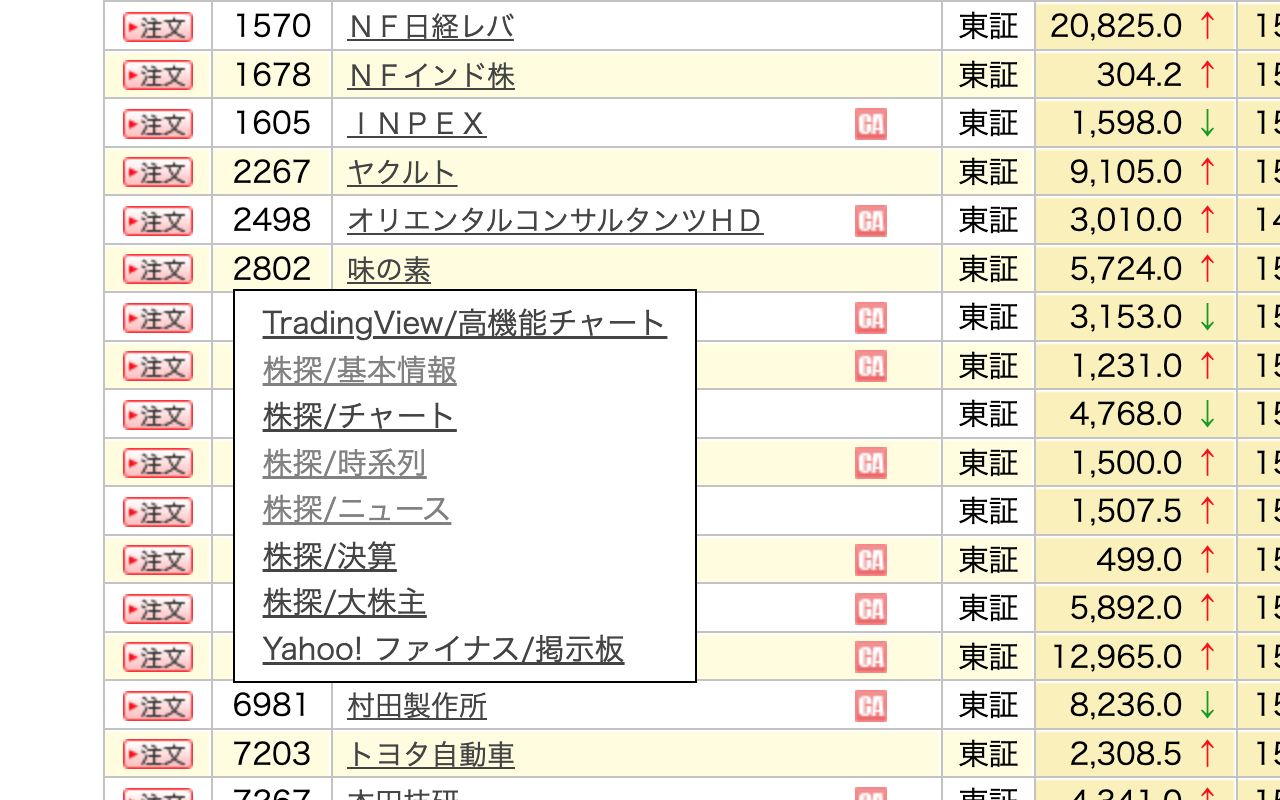
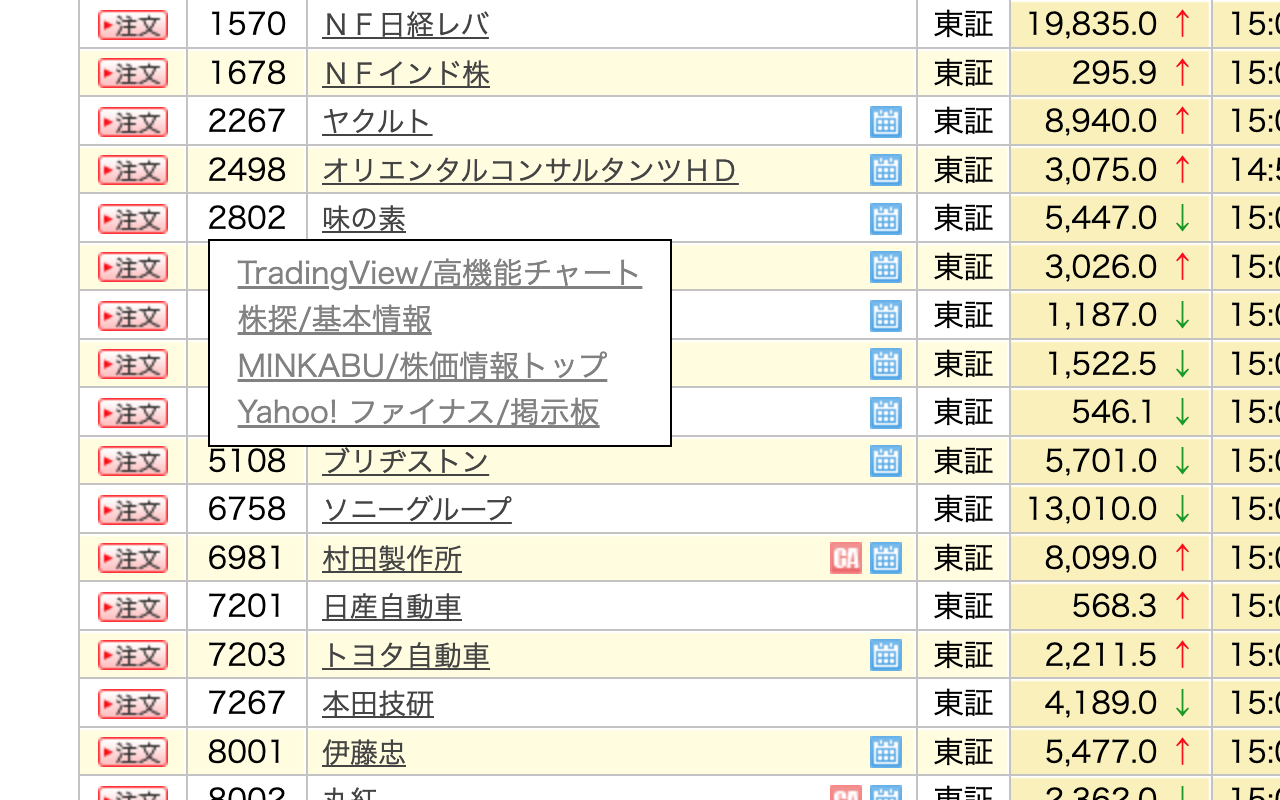
MINKABU追加

diff --git a/src/tradingview-cs.js b/src/tradingview-cs.js
@@ -61,8 +61,9 @@ function hookMenu () {
 
   const tickerCode = firstMenuItemText.slice(0, 4)
 
-  const yahoo = `${tickerCode} をYahoo!ファイナンスで開く`
   const kabutan = `${tickerCode} を株探で開く`
+  const minkabu = `${tickerCode} をMINKABUで開く`
+  const yahoo = `${tickerCode} をYahoo!ファイナンスで開く`
 
   const menuItem = $(`
   <tr class="row-DFIg7eOh">
@@ -79,7 +80,7 @@ function hookMenu () {
       <div class="content-GJX1EXhk">
         <span class="label-GJX1EXhk" data-label="true">
           <div class="wrapper-NLkHhUu3">
-            <a style="color: var(--tv-color-popup-element-text); width: 100%;" title="${yahoo}" target="_blank" rel="noopener noreferrer" href="https://finance.yahoo.co.jp/quote/${tickerCode}/bbs">${yahoo}</a>
+            <a style="color: var(--tv-color-popup-element-text); width: 100%;" title="${kabutan}" target="_blank" rel="noopener noreferrer" href="https://kabutan.jp/stock/?code=${tickerCode}">${kabutan}</a>
           </div>
         </span>
       </div>
@@ -94,7 +95,22 @@ function hookMenu () {
       <div class="content-GJX1EXhk">
         <span class="label-GJX1EXhk" data-label="true">
           <div class="wrapper-NLkHhUu3">
-            <a style="color: var(--tv-color-popup-element-text); width: 100%;" title="${kabutan}" target="_blank" rel="noopener noreferrer" href="https://kabutan.jp/stock/?code=${tickerCode}">${kabutan}</a>
+            <a style="color: var(--tv-color-popup-element-text); width: 100%;" title="${minkabu}" target="_blank" rel="noopener noreferrer" href="https://minkabu.jp/stock/${tickerCode}">${minkabu}</a>
+          </div>
+        </span>
+      </div>
+    </td>
+  </tr>
+  <tr class="subMenu-GJX1EXhk">
+    <td></td>
+  </tr>
+  <tr class="item-GJX1EXhk interactive-GJX1EXhk normal-GJX1EXhk">
+    <td class="iconCell-GJX1EXhk" data-icon-cell="true"></td>
+    <td>
+      <div class="content-GJX1EXhk">
+        <span class="label-GJX1EXhk" data-label="true">
+          <div class="wrapper-NLkHhUu3">
+            <a style="color: var(--tv-color-popup-element-text); width: 100%;" title="${yahoo}" target="_blank" rel="noopener noreferrer" href="https://finance.yahoo.co.jp/quote/${tickerCode}/bbs">${yahoo}</a>
           </div>
         </span>
       </div>

diff --git a/src/service_worker.js b/src/service_worker.js
@@ -1,20 +1,29 @@
-chrome.contextMenus.create({
-  id: 'kabutan',
-  title: '株探/基本情報',
-  contexts: ['selection']
-})
+try {
+  chrome.contextMenus.create({
+    id: 'tradingview',
+    title: 'TradingView/高機能チャート',
+    contexts: ['selection']
+  })
+  
+  chrome.contextMenus.create({
+    id: 'kabutan',
+    title: '株探/基本情報',
+    contexts: ['selection']
+  })
 
-chrome.contextMenus.create({
-  id: 'yahoo',
-  title: 'Yahoo! ファイナス/掲示板',
-  contexts: ['selection']
-})
-
-chrome.contextMenus.create({
-  id: 'tradingview',
-  title: 'TradingView/高機能チャート',
-  contexts: ['selection']
-})
+  chrome.contextMenus.create({
+    id: 'minkabu',
+    title: 'MINKABU/株価情報トップ',
+    contexts: ['selection']
+  })
+  
+  chrome.contextMenus.create({
+    id: 'yahoo',
+    title: 'Yahoo! ファイナス/掲示板',
+    contexts: ['selection']
+  })
+} catch {
+}
 
 chrome.contextMenus.onClicked.addListener(function(info, tab) {
   const matches = info.selectionText.match(/\d{4}/g)
@@ -27,14 +36,17 @@ chrome.contextMenus.onClicked.addListener(function(info, tab) {
 
   let url = null
   switch (info.menuItemId) {
+    case 'tradingview':
+      url = `https://jp.tradingview.com/chart/?symbol=TSE%3A${tickerCode}`
+      break
     case 'kabutan':
       url = `https://kabutan.jp/stock/?code=${tickerCode}`
       break
+    case 'minkabu':
+      url = `https://minkabu.jp/stock/${tickerCode}`
+      break
     case 'yahoo':
       url = `https://finance.yahoo.co.jp/quote/${tickerCode}/bbs`
-      break
-    case 'tradingview':
-      url = `https://jp.tradingview.com/chart/?symbol=TSE%3A${tickerCode}`
       break
   }
 

diff --git a/src/link.js b/src/link.js
@@ -7,6 +7,7 @@ function createDropDownMenu (tickerCode) {
   const dropDownMenu = $('<ul class="x-kabu">')
     .css('padding', '3px 8px')
     .css('text-align', 'left')
+    .css('z-index', '999999')
 
   gotoLinks.forEach((linkSetting) => {
     const link = $('<a>')
@@ -82,24 +83,8 @@ const gotoLinks = [
     url: 'https://kabutan.jp/stock/?code={}'
   },
   {
-    title: '株探/チャート',
-    url: 'https://kabutan.jp/stock/chart?code={}'
-  },
-  {
-    title: '株探/時系列',
-    url: 'https://kabutan.jp/stock/kabuka?code={}'
-  },
-  {
-    title: '株探/ニュース',
-    url: 'https://kabutan.jp/stock/news?code={}'
-  },
-  {
-    title: '株探/決算',
-    url: 'https://kabutan.jp/stock/finance?code={}'
-  },
-  {
-    title: '株探/大株主',
-    url: 'https://kabutan.jp/stock/holder?code={}'
+    title: 'MINKABU/株価情報トップ',
+    url: 'https://minkabu.jp/stock/{}'
   },
   {
     title: 'Yahoo! ファイナス/掲示板',

diff --git a/src/rakuten-cs.js b/src/rakuten-cs.js
@@ -60,6 +60,11 @@ const hookSettings = [
     selector: 'form#form table.tbl-data-01 td.align-C div.mbody nobr'
   },
   {
+    title: 'お気に入り編集',
+    url: '/app/info_jp_prc_reg_lst_edit.do;',
+    selector: 'form table.tbl-data-01 td.align-C div.mbody nobr'
+  },
+  {
     title: '保有商品一覧・すべて',
     url: '/app/ass_all_possess_lst.do;',
     selector: 'div#table_possess_data table.tbl-bold-border tr > td:contains("国内株式") + td'
